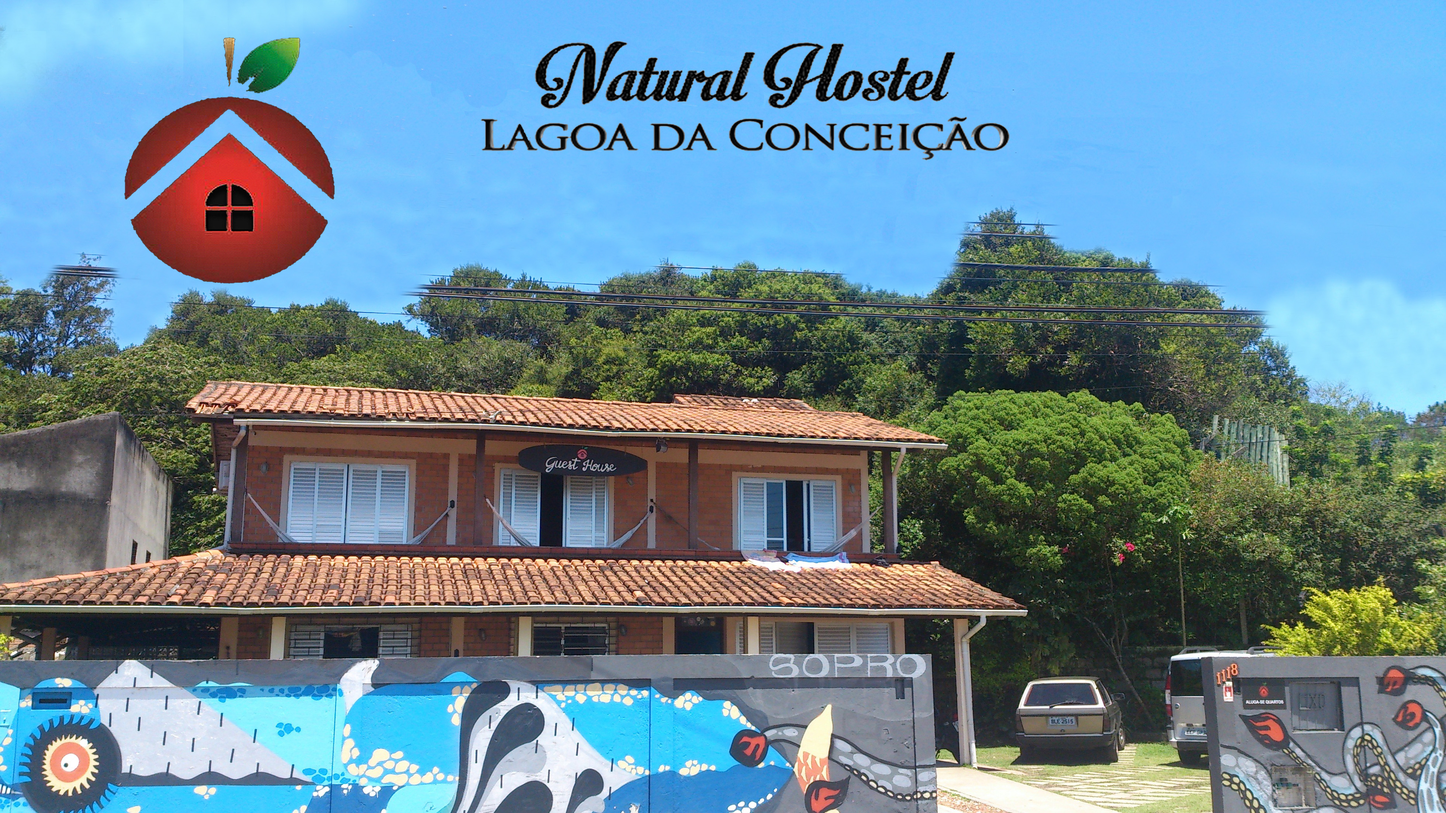
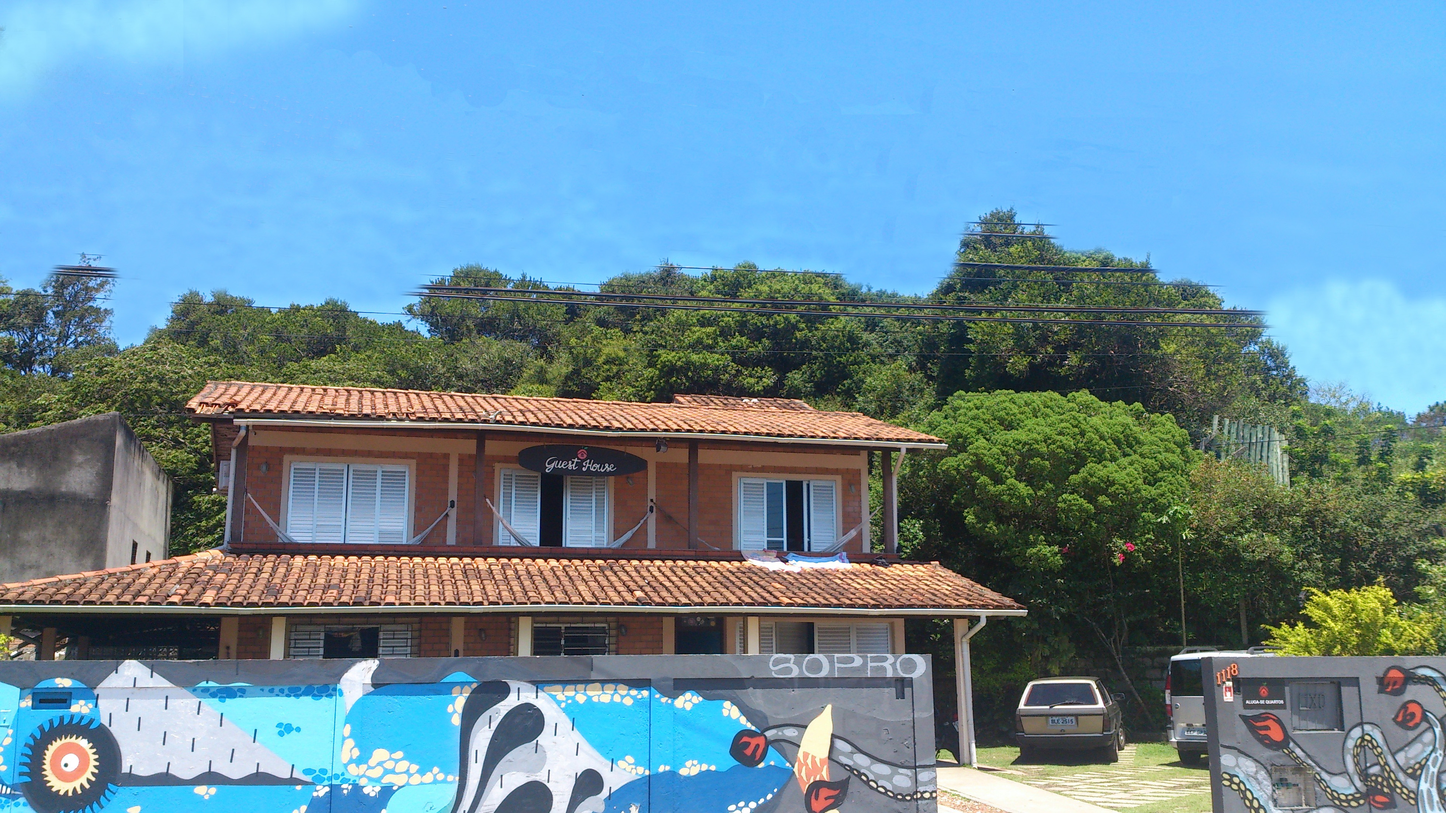
adjustments landing page

Changed region(s): [[0.0622, 0.0309, 0.249, 0.3702], [0.3112, 0.0309, 0.7158, 0.1851]]

diff --git a/assets/css/landing-page.css b/assets/css/landing-page.css
@@ -1,1 +1,1 @@
-@font-face{font-family:amazoneBt;src:url(/assets/fonts/ufonts.com_amazone-bt.ttf)}body,html{width:100%;height:100%}body,h1,h2,h3,h4,h5,h6{font-family:Lato,Helvetica Neue,Helvetica,Arial,sans-serif;font-weight:700}.intro-header{padding-top:-10px;padding-bottom:50px;text-align:center;color:#f8f8f8;background:url(/assets/img/frente3Edit.jpg) no-repeat center center;background-size:cover;height:100%}.intro-message{position:relative;width:50%}.intro-message h1{font-size:80px;font-family:amazoneBt}
+@font-face{font-family:amazoneBt;src:url(/assets/fonts/ufonts.com_amazone-bt.ttf)}body,html{width:100%;height:100%}body,h1,h2,h3,h4,h5,h6{font-family:Lato,Helvetica Neue,Helvetica,Arial,sans-serif;font-weight:700}.intro-header{padding-top:-10px;padding-bottom:50px;text-align:center;color:#f8f8f8;background:url(/assets/img/frente3Edit.jpg) no-repeat center center;background-size:cover;height:100%;position:relative;margin:0}.intro-header .intro-strip{margin-top:20px;background:-webkit-linear-gradient(left,transparent,rgba(0,0,0,.7),rgba(0,0,0,.7),rgba(0,0,0,.7),transparent);background:linear-gradient(to right,transparent,rgba(0,0,0,.7),rgba(0,0,0,.7),rgba(0,0,0,.7),transparent);display:-webkit-box;display:-ms-flexbox;display:flex;-webkit-box-align:center;-ms-flex-align:center;align-items:center}.intro-header .intro-strip .intro-image{position:inherit}.intro-header .intro-strip .intro-image img{width:100px;height:auto}.intro-header .intro-strip .intro-logo img{width:55%;height:auto;-webkit-filter:invert(100%);filter:invert(100%);margin-top:15px}

diff --git a/assets/sass/landing-page.scss b/assets/sass/landing-page.scss
@@ -24,16 +24,39 @@ body, h1, h2, h3, h4, h5, h6 {
   background: url(/assets/img/frente3Edit.jpg) no-repeat center center;
   background-size: cover;
   height: 100%;
-}
-
-.intro-message {
   position: relative;
-  width: 50%;
-  //margin-top: 15%;
-  //color: black;
+  margin: 0;
 
-  h1 {
-    font-size: 80px;
-    font-family: amazoneBt;
+  .intro-strip {
+    margin-top: 20px;
+
+    //background: linear-gradient(to right, rgba(0, 0, 0, 1), rgba(0, 0, 0, 0));
+    background: linear-gradient(left, rgba(0, 0, 0, 0), rgba(0, 0, 0, 0.7), rgba(0, 0, 0, 0.7), rgba(0, 0, 0, 0.7), rgba(0, 0, 0, 0));
+
+    display: flex;
+    align-items: center;
+
+    .intro-image {
+      position: inherit;
+
+      img {
+        width: 100px;
+        height: auto;
+      }
+    }
+
+    .intro-logo {
+      img {
+        width: 55%;
+        height: auto;
+        filter: invert(100%);
+        margin-top: 15px;
+      }
+    }
+
+    .intro-buttons {
+
+    }
   }
+
 }

diff --git a/index.php b/index.php
@@ -8,17 +8,34 @@ get_header('Início');
     <div class="container-fluid">
         <div class="container-fluid">
 
-            <div class="row">
-                <div class="col-lg-12">
-                    <div class="intro-message">
+            <div class="row intro-strip animated fadeIn">
+                <div class="col-lg-3">
+                    <div class="intro-image animated fadeInLeft">
+                        <img src="/assets/img/maça.png">
+                    </div>
+                </div>
+
+                <div class="col-lg-6">
+                    <div class="intro-logo animated fadeInDown">
                         <center>
-<!--                            <h1>Natural Hostel</h1>-->
+                            <img src="/assets/img/logo.png">
                         </center>
                     </div>
-                    <div class="intro-buttons">
+                </div>
+
+                <div class="col-lg-3">
+                    <div class="intro-buttons animated fadeInRight">
+                        <a class="btn btn-primary">Facebook</a>
+                        <a class="btn btn-primary">Instagram</a>
                     </div>
                 </div>
             </div>
+
+            <!-- Arrow to indicate scroll -->
+
+            
+
         </div>
     </div>
+</div>
 </div>
